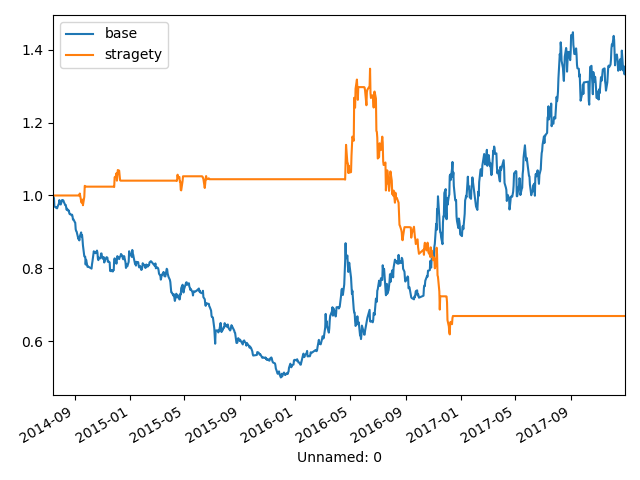
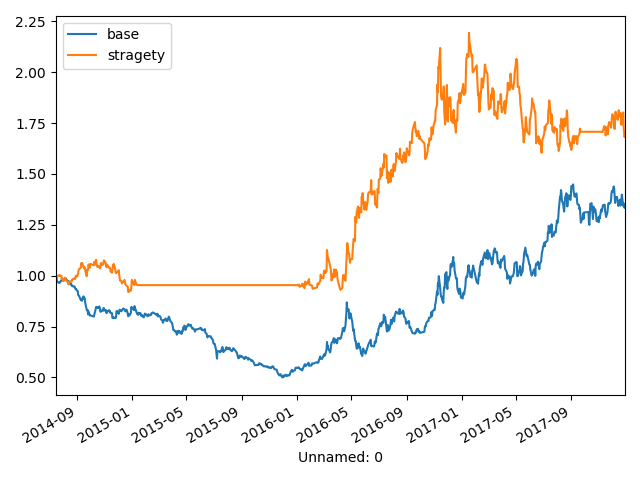
前进分析法,参数选择优化

diff --git a/cta策略/walk_forward_opt.py b/cta策略/walk_forward_opt.py
@@ -45,7 +45,8 @@ class ROC(SimpleBacktest):
                     result_df = pd.concat([result_df, result], axis=0)
 
 
-            self.best_param = int(result_df.sort_values(by='diff_sharep').iloc[-1, :]['参数'])
+            best_param = result_df.sort_values(by='diff_sharep')
+            self.best_param = int(best_param[best_param>0].iloc[0, :]['参数'])
             # self.best_param = int(result_df.sort_values(by='夏普比率').iloc[-1, :]['参数'])
             self.best_sharpe = result_df[(result_df.参数).astype(int)==self.best_param]['夏普比率'][0]
             self.diff_sharep = result_df[(result_df.参数).astype(int)==self.best_param]['diff_sharep'][0]
@@ -53,11 +54,11 @@ class ROC(SimpleBacktest):
 
 
         n = self.best_param
-        print('n: '+str(n))
-        print('self.best_sharpe: '+str(self.best_sharpe))
-        print('self.diff_sharep: '+str(self.diff_sharep))
+        # print('n: '+str(n))
+        # print('self.best_sharpe: '+str(self.best_sharpe))
+        # print('self.diff_sharep: '+str(self.diff_sharep))
 
-        if self.num < n or self.best_sharpe < 1:
+        if self.num < n or self.best_sharpe < 0:
             self.target_position(0, self.his_data['last'])
             return
         signal = np.sign(self.his_data['close'][-1] / self.his_data['close'][-n] - 1)
@@ -69,7 +70,7 @@ class ROC(SimpleBacktest):
 
 
 pre_date = 360  # 参数寻优长度
-trade_date = 60  # 回测长度
+trade_date = 10  # 回测长度
 
 stragety_name = 'ROC_1d'  # 策略名
 filedir = './result/螺纹/'  # 图片保存地址
